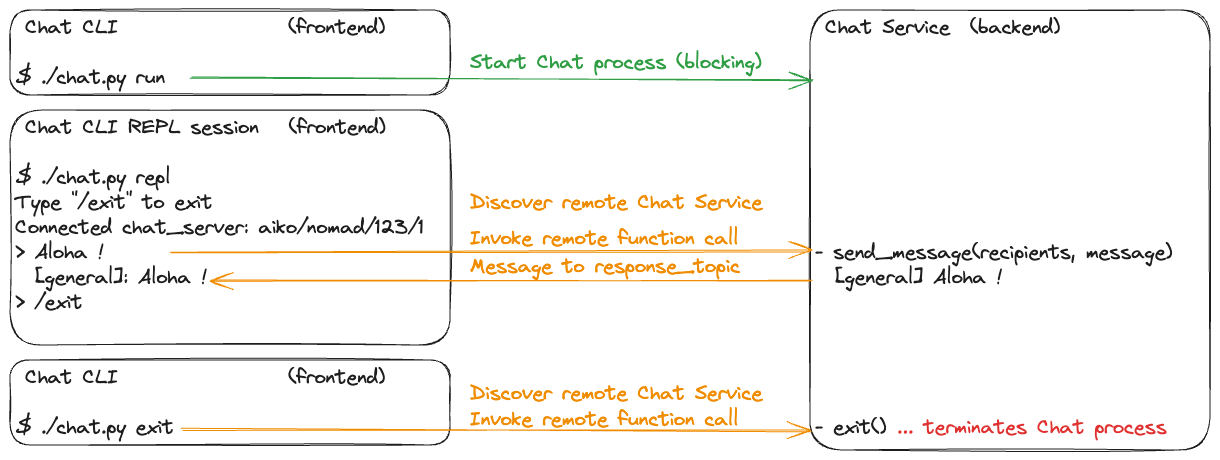
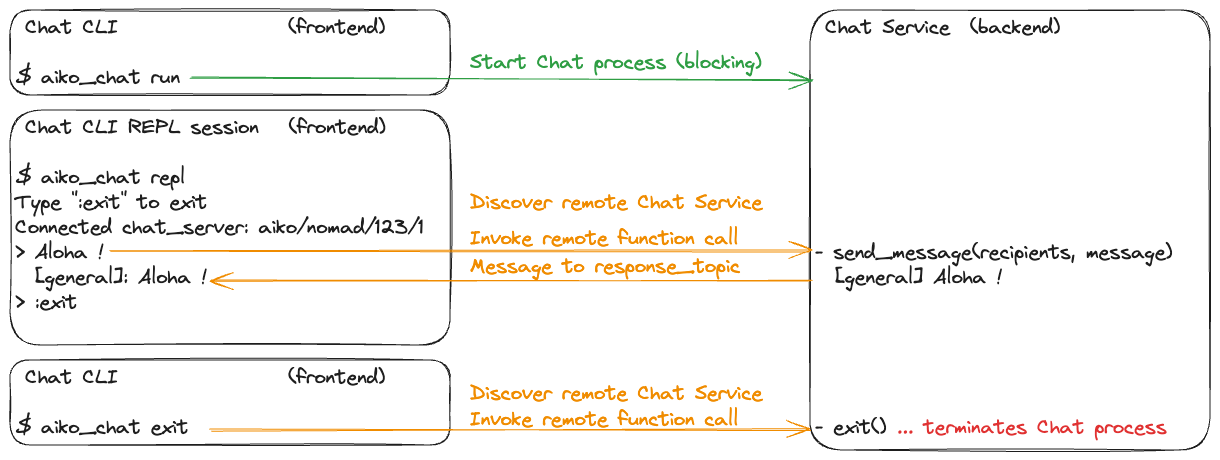
Improve "ReadMe.md" documentation with more up-to-date system diagram and instructions on using the "./chat.py repl" Chat CLI REPL session. Improve "src/aiko_chat/chat.py" to include HyperSpace as a means to manage "#channels" and "@users".

diff --git a/src/aiko_chat/chat.py b/src/aiko_chat/chat.py
@@ -15,24 +15,38 @@
 # TOPIC="aiko/$HOST_NAME/$PID/1/in"
 #
 # mosquitto_pub -t $TOPIC -m "(send_message @all hello)"
-#
 # Notes
 # ~~~~~
 # recipients: channel(s) or @username(s): @all, @here
 #
 # To Do
 # ~~~~~
+# *** Create a simple bot ... initially, no LLM, then basic Ollama LLM :)
+#
+# * Fix: Discover ChatServer via "owner" field ... support multiple concurrent
+#   - Default search "owner" should be "*"
+#   - Default "username" should be the "$USERNAME", override with REPL argument
+#
+# - Support multiple channels via HyperSpace ?
+#   * Create Category and Channels with the correct protocol type and owner
+#   - What is stored in each Channel Dependency storage file ?
+# - Support multiple users via HyperSpace ?
+#   * Create Category and Users with the correct protocol type and owner
+#   - What is stored in each User Dependency storage file ?
+#
 # - Implement "ChatServer.topic_out" Dependency link ...
 #   - "ChatServer.topic_out" --[function_call]--> "ChatREPL.topic_in"
 #
 # - Add send_message() properties: timestamp, username
+#
 # - UI: CLI (REPL), TUI (Dashboard plug-in), Web
-#   - Implement "/commands", e.g "/help"
-#   - Refactor standard tty REPL ("scheme_tty.py")
-# - Support multiple channels, multiple users
-# - Security: ACLs (roles, users), encryption (shared symmetric keys) ?
+#   - Implement ":commands", e.g ":help" as dynamic plug-ins
+#   - Refactor standard tty REPL ("scheme_tty.py") to use ReplSession ?
+#
 # - Incorporate A.I Agents and Robots (real and virtual TUI/GUI)
 #   - LLM with RAG based on chat history, other information sources (tools)
+#
+# - Security: ACLs (roles, users), encryption (shared symmetric keys) ?
 
 from abc import abstractmethod
 import click
@@ -46,6 +60,7 @@ __all__ = ["ChatREPL", "ChatREPLImpl", "ChatServer", "ChatServerImpl"]
 
 _CHANNEL_NAME = "general"  # TODO: Support multiple channels (CRUD)
 _HISTORY_PATHNAME = None
+_HYPERSPACE_NAME = "chat_space"
 _VERSION = 0
 
 _ACTOR_REPL = "chat_repl"
@@ -100,7 +115,7 @@ class ChatREPLImpl(aiko.Actor):
         command = command.strip()
         if not command:
             return
-        if command in ("/exit"):
+        if command in (":exit"):
             self.repl_session.stop()
             aiko.process.terminate()
         else:
@@ -153,6 +168,9 @@ class ChatServerImpl(aiko.Actor):
         context.call_init(self, "Actor", context)
         self.share["source_file"] = f"v{_VERSION}⇒ {__file__}"
 
+        self.hyperspace = aiko.HyperSpaceImpl.create_hyperspace(
+            _HYPERSPACE_NAME)
+
     def exit(self):
         aiko.process.terminate()
 
@@ -187,7 +205,7 @@ def repl_command():
     tags = ["ec=true"]       # TODO: Add ECProducer tag before add to Registrar
     init_args = aiko.actor_args(_ACTOR_REPL, protocol=_PROTOCOL_REPL, tags=tags)
     chat = aiko.compose_instance(ChatREPLImpl, init_args)
-    chat.print('Type "/exit" to exit')
+    chat.print('Type ":exit" to exit')
     aiko.process.run()
     chat.join()  # wait until Chat ReplSession has cleaned-up
 

diff --git a/ReadMe.md b/ReadMe.md
@@ -6,7 +6,7 @@ An example of using Aiko Services to implement a group discussion frontend and b
 
 The Aiko Chat frontend CLI can be used to start, interact with and stop the Aiko Chat backend server.
 
-Multiple copies of the Aiko Chat CLI REPL session can be running at the same time.
+Multiple copies of the Aiko Chat CLI [REPL](https://en.wikipedia.org/wiki/Read%E2%80%93eval%E2%80%93print_loop) session can be running at the same time.
 
 ![](aiko_chat_diagram.png)
 
@@ -27,57 +27,64 @@ pip install -e .
 cd ..
 ```
 
-## Usage
+## Prerequisites
+
 An MQTT server, e.g `mosquitto` and the `Aiko Services Registrar` need to be already running ... see [this script](https://github.com/geekscape/aiko_services/blob/master/scripts/system_start.sh).
 
 The MQTT server `mosquitto` can be running on any host, either locally or accessible over the Internet.
 
 The `Aiko Services Registrar` can also be running anywhere ... and it is easiest to start by running it locally.
 
-For every process involved, make sure that the `AIKO_MQTT_HOST` environment variable references the correct (same) MQTT server host.
+**For every process involved, make sure that the `AIKO_MQTT_HOST` environment variable references the correct (same) MQTT server host.**
+
+## Usage
 
 Each of the following terminal sessions needs to be operating in the development environment's **Python virtual environment**.
 
 ### Start Aiko Dashboard for monitoring and diagnosis
 
-You may leave the Aiko Services Dashboard running ... and also watch the Aiko Chat Service in operation.
+You may leave the Aiko Services Dashboard running ... and also watch the Aiko Chat Services in operation.
 
 ```bash
 # Terminal session 1
 $ source venv/bin/activate
-$ aiko_dashboard  # Check that mosquitto and Aiko Registrar are running correctly
+$ aiko_dashboard      # Check mosquitto and Aiko Registrar are running correctly
 ```
 
+The following screen snapshot is the Aiko Services Dashboard showing the backend Chat server and the frontend CLI [REPL](https://en.wikipedia.org/wiki/Read%E2%80%93eval%E2%80%93print_loop).
+
+![](aiko_chat_dashboard.png)
+
 ### Start the Aiko Chat Service
+
 ```bash
 # Terminal session 2
 $ source venv/bin/activate
-$ cd aiko_chat/src/aiko_chat
-$ ./chat.py run       # Block until the Aiko Chat Service is terminated
+$ aiko_chat run       # Block until the Aiko Chat Service is terminated
 ```
 
 ### Send messages via the Aiko Chat Service
+
 As messages are sent, the log output should also appear on Terminal session 2 (above)
 
 ```bash
 # Terminal session 3
 $ source venv/bin/activate
-$ cd aiko_chat/src/aiko_chat
-$ ./chat.py repl      # Start Chat CLI REPL session
-Type "/exit" to exit
+$ aiko_chat repl      # Start Chat CLI REPL session
+Type ":exit" to exit
 Connected    chat_server: aiko/host/123/1
 > hello               # Message sent to send_message(recipients, message)
 ['general']: hello    # Reponse received from Aiko Chat Service
 > goodbye
 ['general']: goodbye
-> /exit               # Exit Chat CLI REPL session
+> :exit               # Exit Chat CLI REPL session
 s the Aiko Chat Service process
 ```
 
 ### Stop the Aiko Chat Service
+
 ```bash
 # Terminal session 3
 $ source venv/bin/activate
-$ cd aiko_chat/src/aiko_chat
-$ ./chat.py exit      # Terminate the Aiko Chat Service process
+$ aiko_chat exit      # Terminate the Aiko Chat Service process
 ```
